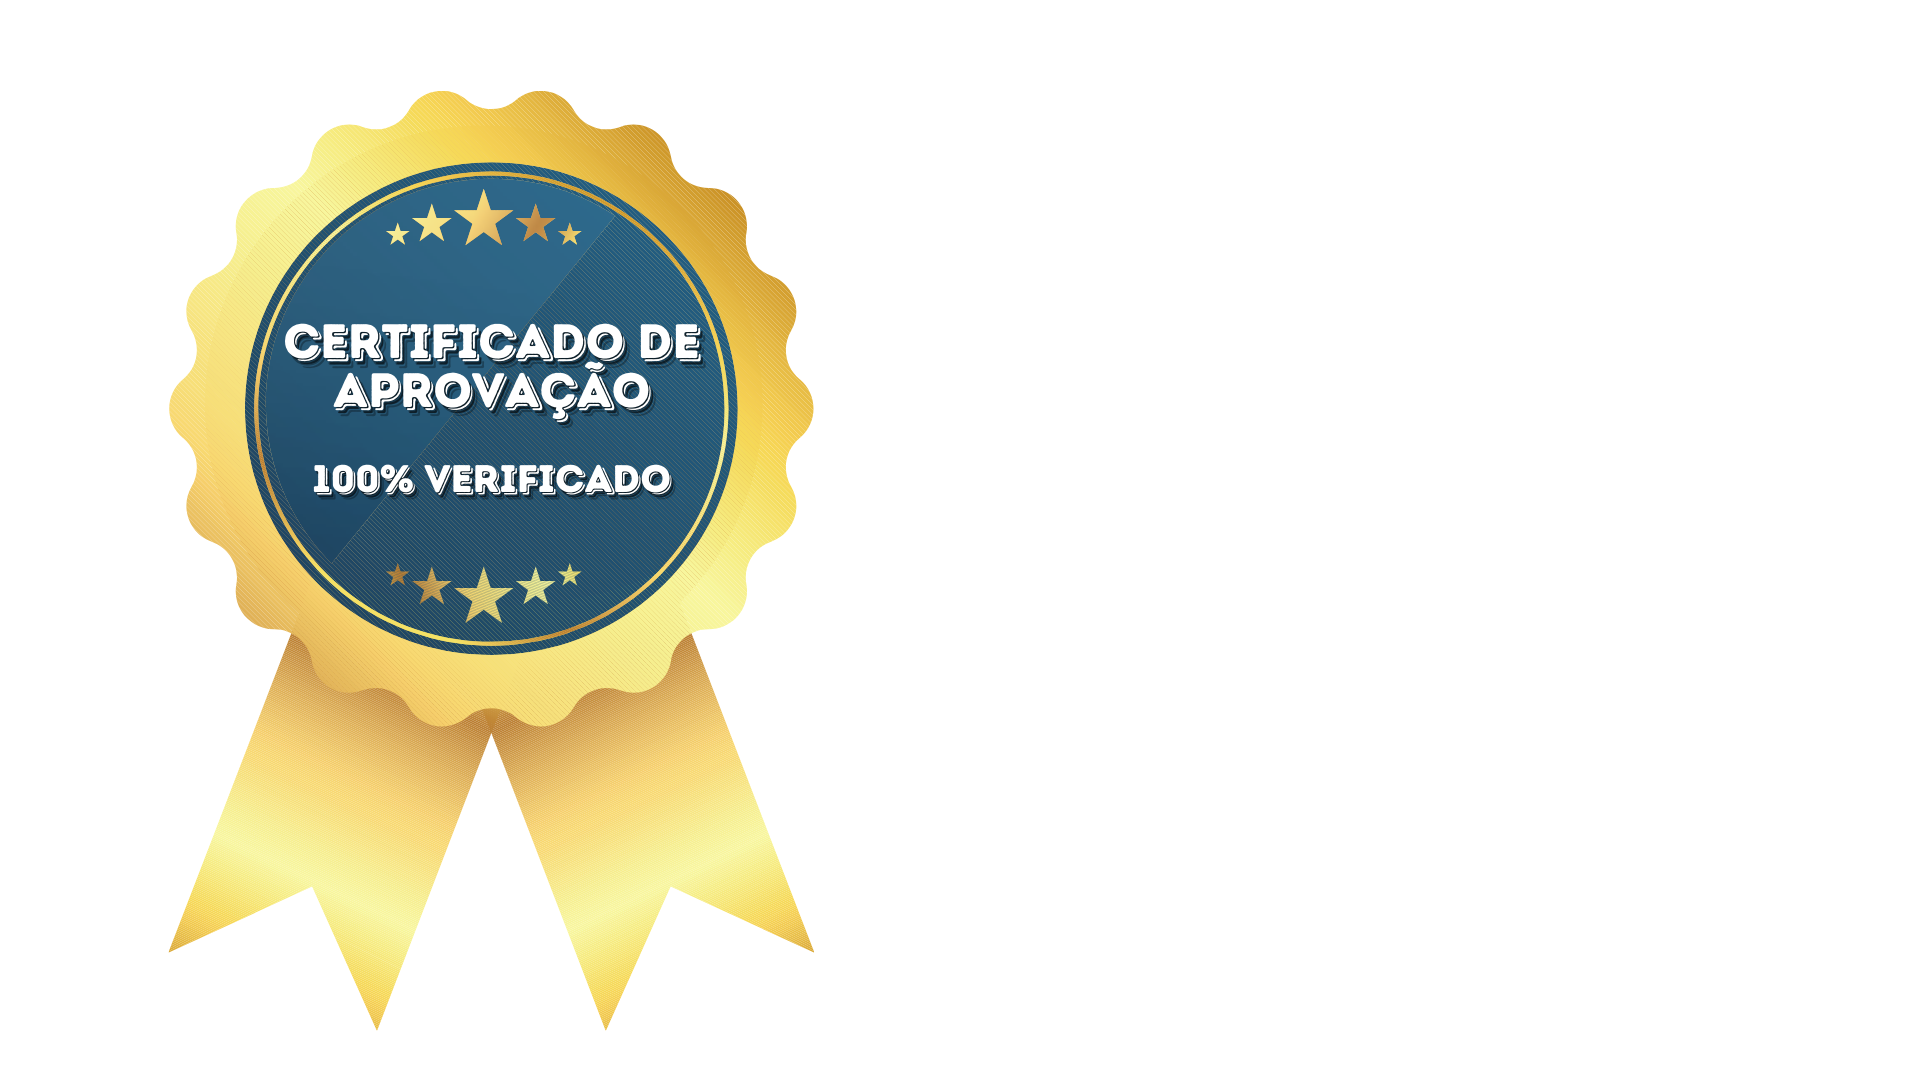
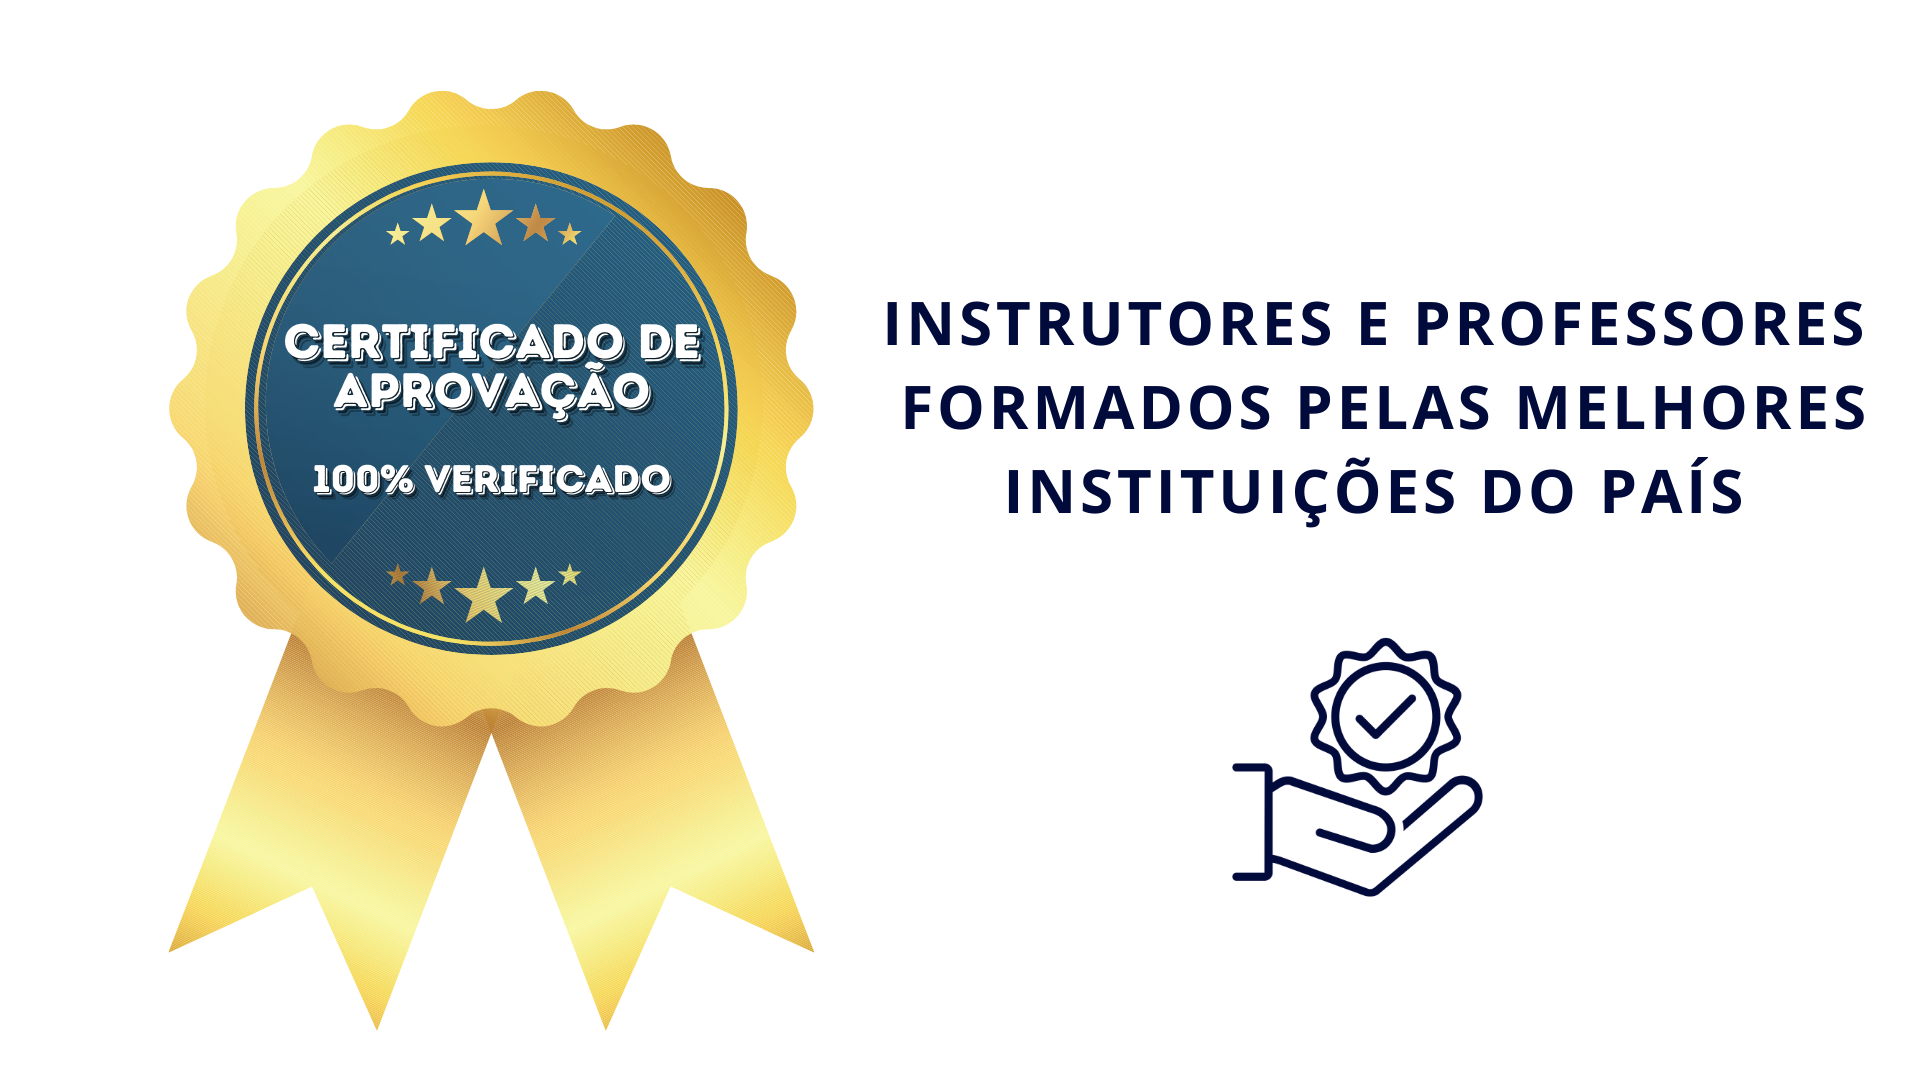
add: white background

Changed region(s): [[0.4375, 0.275, 0.9688, 0.3972], [0.625, 0.5806, 0.7812, 0.825], [0.5, 0.4278, 0.9062, 0.4889]]

diff --git a/src/Components/HomePage/Home/Home.js b/src/Components/HomePage/Home/Home.js
@@ -7,6 +7,8 @@ import { BiSolidDownArrow } from "react-icons/bi";
 import card from '../../../assets/images/cardSobreGTMED.png'
 import bannerMobile from '../../../assets/images/bannerMobile.png'
 import banner from '../../../assets/images/banner.png'
+import whiteBackground1 from '../../../assets/images/whiteBackground.png'
+import whiteBackground2 from '../../../assets/images/whiteBackground2.png'
 
 function Home() {
   const [width, setWidth] = useState(window.innerWidth);
@@ -43,7 +45,7 @@ function Home() {
   };
 
   return (
-    <Container backgroundImage={backgroundHome} backgroundPosition={width > 1200 ? 'center' : 'left'}>
+    <Container backgroundImage={whiteBackground1} backgroundPosition={width > 1200 ? 'center' : 'left'}>
       <Fade delay={300} cascade damping={0.3} triggerOnce={true} direction='down' style={{ display: 'flex', alignItems: 'center', flexDirection: 'column' }}>
         <Logo src={logo} alt='Logo'/>
       </Fade>
@@ -107,7 +109,7 @@ const Banner = styled.img`
       @media (max-width: 1200px) {
         height: 25.1512vh;
         width: 50.729vh;
-        margin-bottom: 3 vh;
+        margin-bottom: 3vh;
         margin-top: 3vh;
       }
 `
@@ -125,8 +127,8 @@ const Logo = styled.img`
 `
 
 const Card = styled.img`
-  width: 47.879vh;
-  height: 27vh;
+  width: 62.2437vh;
+  height: 35.1vh;
   border-radius: 25px;
       @media (max-width: 1200px) {
         margin-top: 0;
@@ -166,7 +168,7 @@ const Container = styled.div`
     background-position: ${props => `${props.backgroundPosition}`};
     background-size: cover;
     background-repeat: no-repeat;
-    filter: blur(5px);
+    filter: blur(2px);
   }
 `;
 
@@ -189,7 +191,7 @@ const CenterContent = styled.div`
     align-items: center;
     padding-top: 1vh;
     flex-direction: column;
-    width: 35%;
+    width: 40%;
     @media (max-width: 1200px) {
     padding-top: 0;
     margin: 0 !important;
@@ -215,13 +217,13 @@ const CenterContent = styled.div`
       text-align: center;
       max-width: 100%;
       letter-spacing: 1.5px;
-      color: #051461;
+      color: white;
       font-family: "Montserrat", sans-serif;
-      padding: 1.2vh;
+      padding: 2vh;
       border-radius: 22px;
-      font-size: 2vh;
+      font-size: 2.2vh;
       border-radius: 10px;
-      background-image: linear-gradient(45deg, #DFDDDD, #FFFFFF, #BDBBBB, #979494);
+      background-image: linear-gradient(45deg, #051461, #27305C, #1A286D, #334186);
       background-size: 400% 200%;
       animation: textura 3.4s cubic-bezier(0.2, 0.5, 0.9, 0.6) 2s infinite;
       transition: background 1.6s cubic-bezier(0.55, 0.1, 0.47, 0.94);
@@ -238,8 +240,8 @@ const CenterContent = styled.div`
       @media (max-width: 1200px) {
         font-size: 1.5vh !important;
         max-width: 100%;
-        margin-bottom: 7vh;
-        margin-top: 0 !important;
+        margin-bottom: 3vh;
+        margin-top: 4vh !important;
       }
     }
   }
@@ -247,11 +249,11 @@ const CenterContent = styled.div`
 
 const StyledButton = styled.div`
 background-color: #f74242;
-padding: 2.1vh 3.4vh;
+padding: 2.73vh 4.42vh;
 color: white;
 font-weight: 700;
 font-family: "Montserrat", sans-serif;
-font-size: 2.2vh;
+font-size: 2.9vh;
 border-radius: 10px;
 transition: scale 0.3s ease;
 @media (max-width: 1200px) {
